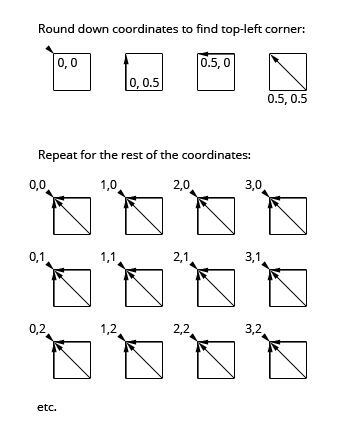
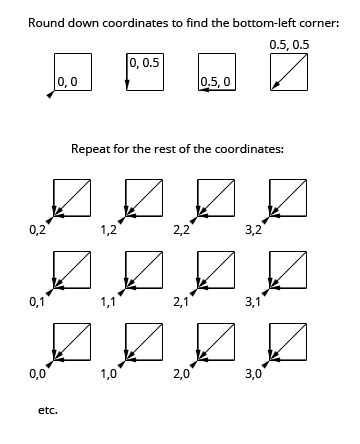
million_letters: copyedits from Kathy sans summary

diff --git a/www.html5rocks.com/content/tutorials/webgl/million_letters/en/index.html b/www.html5rocks.com/content/tutorials/webgl/million_letters/en/index.html
@@ -16,50 +16,61 @@
 </figure>
 
 <h2 id="toc-intro">Introduction</h2>
-<p>My goal in this article is to draw a million animated letters on the screen at a smooth framerate. This task should be quite possible with modern GPUs. Each letter consists of two textured triangles, so we're only talking about two million triangles per frame. 
+<p>My goal in this article is to draw a million animated letters on the screen at a smooth frame rate. This task should be quite possible with modern GPUs. Each letter consists of two textured triangles, so we're only talking about two million triangles per frame. 
 
 <p>If you're coming from a traditional JavaScript animation background, this all sounds like madness. Two million triangles updated every frame is definitely not something you would like to do with JavaScript today. But thankfully we have <a href="http://www.khronos.org/webgl/wiki/Getting_Started">WebGL</a>, which lets us tap into the awesome power of modern GPUs. And two million animated triangles is quite doable with a modern GPU and some shader magic.
 
 <h2 id="toc-efficientwebgl">Writing efficient WebGL code</h2>
-<p>Writing efficient WebGL code requires a specific mindset. The basic idea is to collect as many operations as possible into a single draw call, as changing the WebGL state machine state and doing WebGL calls is relatively expensive. If you want to draw more than a couple thousand objects at once, you need to adopt a quite different strategy for drawing.
+<p>Writing efficient WebGL code requires a certain mindset. The usual way to draw using WebGL is to set up your uniforms, buffers and shaders for each object, followed by a call to draw the object. This way of drawing works when drawing a small number of objects. To draw a large number of objects, you should minimize the amount of WebGL state changes. To start with, draw all objects using the same shader after each other, so that you don't have to change shaders between objects. For simple objects like particles, you could bundle several objects into a single buffer and edit it using JavaScript. That way you'd only have to reupload the vertex buffer instead of changing shader uniforms for every single particle.
 
-<p>The usual way of drawing with WebGL is to set up your uniforms, buffers and shaders for each object, followed by a call to draw the object. Unless your object is very complex, the time taken in this way of drawing is dominated by the state setup. To draw in a fast way, you can either do some buffer editing in JavaScript, followed by re-uploading the buffer and the draw call. If you need to go even faster, you can push more computation to the shaders.
+<p>But to go really fast, you need to push most of your computation to the shaders. That's what I'm trying to do here. Animate a million letters using shaders.
 
-<p>I'm going to be using the <a href="https://github.com/mrdoob/three.js/">Three.js</a> library for writing this demo. Three.js abstracts away all the tedious boilerplate from writing WebGL code. Instead of writing a hundred lines of WebGL state setup and error handling, you only need to write a couple lines of code using Three.js. And you can tap into the WebGL shader system from Three.js quite easily.
+<p>The article's code uses the <a href="https://github.com/mrdoob/three.js/">Three.js</a> library, which abstracts away all the tedious boilerplate from writing WebGL code. Instead of having to write hundreds of lines of WebGL state setup and error handling, with Three.js you only need to write a couple lines of code. It's also easy to tap into the WebGL shader system from Three.js.
 
-<h3 id="toc-efficientwebgl-example">Geometry bundling example</h3>
-<p>Instead of drawing one object at a time:
+<h3 id="toc-efficientwebgl-example">Drawing multiple objects using a single draw call</h3>
+<p>Here's a small pseudo-code example of how you might draw multiple objects using a single draw call. The traditional way is to draw one object at a time like this:
 <pre class="prettyprint">
 for (var i=0; i&lt;objects.length; i++) {
+  // each added object requires a separate WebGL draw call
   scene.add(createNewObject(objects[i]));
 }
+renderer.render(scene, camera);
 </pre>
 
-<p>Do it by bundling up the objects into a single geometry:
+<p>But the above method requires a separate draw call for each object. To draw multiple objects at once, you can bundle the objects into a single geometry and get away with a single draw call:
 <pre class="prettyprint">
 var geo = new THREE.Geometry();
 for (var i=0; i&lt;objects.length; i++) {
+  // bundle the objects into a single geometry
+  // so that they can be drawn with a single draw call
   addObjectToGeometry(geo, objects[i]);
 }
+// GOOD! Only one object to add to the scene!
 scene.add(new THREE.Mesh(geo, material));
+renderer.render(scene, camera);
 </pre>
 
+<p>Alright, now that you've got the basic idea, let's get back to writing the demo and start animating those million letters!
 
 <h2 id="toc-setup">Setting up the geometry and textures</h2>
-<p>To start I'm going to create a texture with the letter bitmaps on it. I'm using the 2D canvas for this. The resulting texture has all the letters I want to draw. Then I'm going to create a buffer with texture coordinates to the letter sprite sheet. While this is an easy and straightforward method of setting up the letters, it’s a bit wasteful as it uses two floats per vertex for the texcoords. A shorter way would be to pack the letter index and corner index into one number and convert that back to texture coordinates in the vertex shader.
+<p>As the first step, I'm going to create a texture with the letter bitmaps on it. I'm using the 2D canvas for this. The resulting texture has all the letters I want to draw. The next step is to create a buffer with the texture coordinates to the letter sprite sheet. While this is an easy and straightforward method to set up the letters, it’s a bit wasteful as it uses two floats per vertex for the texture coordinates. A shorter way &mdash; left as an exercise to the reader &mdash; would be to pack the letter index and corner index into one number and convert that back to texture coordinates in the vertex shader. 
 
-<p>Building the letter texture using Canvas 2D:
+<p>Here's how I build the letter texture using Canvas 2D:
 <pre class="prettyprint">
 var fontSize = 16;
-var lettersPerSide = 16; // 16*16 = 256, all 8-bit characters
+
+// The square letter texture will have 16 * 16 = 256 letters, enough for all 8-bit characters.
+var lettersPerSide = 16;
+
 var c = document.createElement('canvas');
 c.width = c.height = fontSize*lettersPerSide;
 var ctx = c.getContext('2d');
 ctx.font = fontSize+'px Monospace';
 
-var yOffset = -0.25; // magic number for aligning the letters on rows
+// This is a magic number for aligning the letters on rows. YMMV.
+var yOffset = -0.25;
 
-// draw all the letters to the canvas
+// Draw all the letters to the canvas.
 for (var i=0,y=0; y&lt;lettersPerSide; y++) {
   for (var x=0; x&lt;lettersPerSide; x++,i++) {
     var ch = String.fromCharCode(i);
@@ -67,8 +78,9 @@ for (var i=0,y=0; y&lt;lettersPerSide; y++) {
   }
 }
 
-// create texture from the letter map
+// Create a texture from the letter canvas.
 var tex = new THREE.Texture(c);
+// And tell Three.js that it needs to update the texture.
 tex.needsUpdate = true;
 </pre>
 
@@ -84,14 +96,14 @@ var v3 = function(x,y,z) {
 
 var i=0, x=0, line=0;
 for (i=0; i<BOOK.length; i++) {
-  var code = BOOK.charCodeAt(i); // character code for current letter
+  var code = BOOK.charCodeAt(i); // This is the character code for the current letter.
   if (code > lettersPerSide * lettersPerSide) {
-    code = 0; // clamp character codes to letter map size
+    code = 0; // Clamp character codes to letter map size.
   }
-  var cx = code % lettersPerSide; // x-index of the letter in map
-  var cy = Math.floor(code / lettersPerSide); // y-index of the letter in map
+  var cx = code % lettersPerSide; // Cx is the x-index of the letter in the map.
+  var cy = Math.floor(code / lettersPerSide); // Cy is the y-index of the letter in the map.
 
-  // add letter vertices to the geometry
+  // Add letter vertices to the geometry.
   var v,t;
   geo.vertices.push(
     v3( x*1.1+0.05, line*1.1+0.05, 0 ),
@@ -99,11 +111,11 @@ for (i=0; i<BOOK.length; i++) {
     v3( x*1.1+1.05, line*1.1+1.05, 0 ),
     v3( x*1.1+0.05, line*1.1+1.05, 0 )
   );
-  // create face for the letter
+  // Create face for the letter.
   var face = new THREE.Face4(i*4+0, i*4+1, i*4+2, i*4+3);
   geo.faces.push(face);
 
-  // compute texture coords for letters
+  // Compute texture coordinates for the letters.
   var tx=cx/lettersPerSide, ty=cy/lettersPerSide, off=1/lettersPerSide;
   var sz = lettersPerSide*fontSize;
   geo.faceVertexUvs[0].push([
@@ -113,8 +125,8 @@ for (i=0; i<BOOK.length; i++) {
     new THREE.UV( tx, ty )
   ]);
 
-  // move to line below on linefeed and move cursor to start of line
-  // otherwise move cursor to the right
+  // On newline, move to the line below and move the cursor to the start of the line.
+  // Otherwise move the cursor to the right.
   if (code == 10) {
     line--;
     x=0;
@@ -128,40 +140,40 @@ for (i=0; i<BOOK.length; i++) {
 <h2 id="toc-shader">Vertex shader for animating the letters</h2>
 <p>With a simple vertex shader, I get a flat view of the text. Nothing fancy. Runs well, but if I want to animate it, I need to do the animation in JavaScript. And JavaScript is kinda slow for animating the six million vertices involved, especially if you want to do it on every frame. Maybe there is there a faster way.
 
-<p>Why yes, we can do procedural animation. What that means is that we do all our position and rotation math in the vertex shader. Now I don't need to run any JavaScript to update the positions of the vertices. The vertex shader runs very fast and I get a smooth framerate even with a million triangles being individually animated every frame. To address the individual triangles, I round down the vertex coordinates so that all four points of a letter quad map to a single unique coordinate. Now I can use this coordinate to set the animation parameters for the letter in question.
+<p>Why yes, we can do procedural animation. What that means is that we do all our position and rotation math in the vertex shader. Now I don't need to run any JavaScript to update the positions of the vertices. The vertex shader runs very fast and I get a smooth frame rate even with a million triangles being individually animated every frame. To address the individual triangles, I round down the vertex coordinates so that all four points of a letter quad map to a single unique coordinate. Now I can use this coordinate to set the animation parameters for the letter in question.
 
-<p>To be able to successfully round down coordinates, coordinates from two different letters can't overlap. The easiest way to do this is by using square letter quads with a small offset separating the letter from the one on its right side and the line below it. For example, you could use a width and height of 0.5 for the letters and align the letters on integer coordinates. Now when you round down the coordinate of any letter vertex, you get the top-left coordinate of the letter.
+<p>To be able to successfully round down coordinates, coordinates from two different letters can't overlap. The easiest way to do this is by using square letter quads with a small offset separating the letter from the one on its right side and the line above it. For example, you could use a width and height of 0.5 for the letters and align the letters on integer coordinates. Now when you round down the coordinate of any letter vertex, you get the bottom-left coordinate of the letter.
 
 <figure>
   <img src="coordinate_rounding.png" width="360" height="444">
   <figcaption>Rounding down vertex coordinates to find the top-left corner of a letter.</figcaption>
 </figure>
 
-<p>Simple vertex shader (with explanations)
+<p>To better understand the animated vertex shader, I'm going to go through a simple run-of-the-mill vertex shader first. This is what normally happens when you draw a 3D model to the screen. The vertices of the model are transformed by a couple transformation matrices to project each 3D vertex onto the 2D screen. Whenever a triangle defined by three of these vertices lands inside the viewport, the pixels it covers are processed by the fragment shader to color them. Anyway, here's the simple vertex shader:
 <pre class="prettyprint">
 varying float vUv;
 
 void main() {
   // modelViewMatrix, position and projectionMatrix are magical
-  // attributes that Three.js defines for us
+  // attributes that Three.js defines for us.
 
-  // transform current vertex by the modelViewMatrix
-  // (bundled model world position & camera world position matrix)
+  // Transform current vertex by the modelViewMatrix
+  // (bundled model world position & camera world position matrix).
   vec4 mvPosition = modelViewMatrix * position;
 
-  // project camera-space vertex to screen coordinates
-  // using the camera's projection matrix
+  // Project camera-space vertex to screen coordinates
+  // using the camera's projection matrix.
   vec4 p = projectionMatrix * mvPosition;
 
-  // uv is another magical attribute from Three.js
-  // we're passing it to the fragment shader unchanged
+  // uv is another magical attribute from Three.js.
+  // We're passing it to the fragment shader unchanged.
   vUv = uv;
 
   gl_Position = p;
 }
 </pre>
 
-<p>Animated vertex shader 
+<p>And now, the animated vertex shader. Basically, it does the same thing as the simple vertex shader, but with a small twist. Instead of transforming each vertex by just the transformation matrices, it applies a time-dependent animated transformation as well. To make each letter animate a bit differently, the animated vertex shader also modifies the animation based on the coordinates of the letter. It's going to look a good deal more complicated than the simple vertex shader because, well, it <i>is</i> more complicated.
 <pre class="prettyprint">
 uniform float uTime;
 uniform float uEffectAmount;
@@ -169,7 +181,8 @@ uniform float uEffectAmount;
 varying float vZ;
 varying vec2 vUv;
 
-// Returns the mat3 rotation matrix for given angle and axis.
+// rotateAngleAxisMatrix returns the mat3 rotation matrix 
+// for given angle and axis.
 mat3 rotateAngleAxisMatrix(float angle, vec3 axis) {
   float c = cos(angle);
   float s = sin(angle);
@@ -183,21 +196,24 @@ mat3 rotateAngleAxisMatrix(float angle, vec3 axis) {
   );
 }
 
-// Rotates a vec3 over the given axis by the given angle and
+// rotateAngleAxis rotates a vec3 over the given axis by the given angle and
 // returns the rotated vector.
 vec3 rotateAngleAxis(float angle, vec3 axis, vec3 v) {
   return rotateAngleAxisMatrix(angle, axis) * v;
 }
 
 void main() {
-  // find letter index in book text (assuming 80-character max line length)
+  // Compute the index of the letter (assuming 80-character max line length).
   float idx = floor(position.y/1.1)*80.0 + floor(position.x/1.1);
-  // round down the vertex coords to find bottom-left corner point of letter
+
+  // Round down the vertex coords to find the bottom-left corner point of the letter.
   vec3 corner = vec3(floor(position.x/1.1)*1.1, floor(position.y/1.1)*1.1, 0.0);
-  // find midpoint of letter
+
+  // Find the midpoint of the letter.
   vec3 mid = corner + vec3(0.5, 0.5, 0.0);
-  // rotate letter around its midpoint by an angle and axis dependent on
-  // the letter's index and the current time
+
+  // Rotate the letter around its midpoint by an angle and axis dependent on
+  // the letter's index and the current time.
   vec3 rpos = rotateAngleAxis(idx+uTime, 
     vec3(mod(idx,16.0), -8.0+mod(idx,15.0), 1.0), position - mid) + mid;
 
@@ -207,45 +223,51 @@ void main() {
 
   vec4 fpos = vec4( mix(position,rpos,effectAmount), 1.0 );
   fpos.x += -35.0;
-  // apply spinning motion to individual letters
+
+  // Apply spinning motion to individual letters.
   fpos.z += ((sin(idx+uTime*2.0)))*4.2*effectAmount;
   fpos.y += ((cos(idx+uTime*2.0)))*4.2*effectAmount;
 
   vec4 mvPosition = modelViewMatrix * fpos;
-  // apply wavy motion to the entire text
+
+  // Apply wavy motion to the entire text.
   mvPosition.y += 10.0*sin(uTime*0.5+mvPosition.x/25.0)*effectAmount;
   mvPosition.x -= 10.0*cos(uTime*0.5+mvPosition.y/25.0)*effectAmount;
 
   vec4 p = projectionMatrix * mvPosition;
 
-  // pass texture coordinates and vertex z-coordinate to fragment shader
+  // Pass texture coordinates and the vertex z-coordinate to the fragment shader.
   vUv = uv;
   vZ = p.z;
 
-  // send final vertex position to WebGL
+  // Send the final vertex position to WebGL.
   gl_Position = p;
 }
 </pre>
 
-<p>To use the vertex shader, I use a <a href="https://github.com/mrdoob/three.js/blob/master/src/materials/ShaderMaterial.js">THREE.ShaderMaterial</a>, a material type that lets you use custom shaders and specify uniforms for them. Three.js provides some pre-built attributes for the shader, such as position, uv, modelViewMatrix and perspectiveMatrix. What this means is that it's usually easier to write shaders for Three.js than with raw WebGL.
-
-<p>Here's the ShaderMaterial example:
+<p>To use the vertex shader, I use a <a href="https://github.com/mrdoob/three.js/blob/master/src/materials/ShaderMaterial.js">THREE.ShaderMaterial</a>, a material type that lets you use custom shaders and specify uniforms for them. Here's how I'm using THREE.ShaderMaterial in the demo:
 <pre class="prettyprint">
-// set up uniforms for the shader
+// First, set up uniforms for the shader.
 var uniforms = {
-  // pass the letter map texture as a built-in uniform
+
+  // map contains the letter map texture.
   map: { type: "t", value: 1, texture: tex },
-  // current time
+
+  // uTime is the urrent time.
   uTime: { type: "f", value: 1.0 },
-  // amount of animation to show
+
+  // uEffectAmount controls the amount of animation applied to the letters.
   uEffectAmount: { type: "f", value: 0.0 }
 };
-  
+
+// Next, set up the THREE.ShaderMaterial.  
 var shaderMaterial = new THREE.ShaderMaterial({
   uniforms: uniforms,
 
   // I have my shaders inside HTML elements like
-  // &lt;script type="text/x-glsl-vert">... shaderSource ... &lt;script>
+  // &lt;script id="vertex" type="text/x-glsl-vert">... shaderSource ... &lt;script>
+
+  // The below gets the contents of the vertex shader script element.
   vertexShader: document.querySelector('#vertex').textContent,
 
   // The fragment shader is a bit special as well, drawing a rotating
@@ -253,20 +275,20 @@ var shaderMaterial = new THREE.ShaderMaterial({
   fragmentShader: document.querySelector('#fragment').textContent
 });
 
-// set depthTest to false so that the letters don't occlude each other
+// I set depthTest to false so that the letters don't occlude each other.
 shaderMaterial.depthTest = false;
 </pre>
 
-<p>On animation frames, I update the shader uniforms:
+<p>On every animation frame, I update the shader uniforms:
 <pre class="prettyprint">
-// Controlling the uniforms through a control object
-// The reason I'm not controlling the uniforms directly is to 
-// have different names and value ranges for the uniforms and the controls
+// I'm controlling the uniforms through a proxy control object.
+// The reason I'm using a proxy control object is to
+// have different value ranges for the controls and the uniforms.
 var controller = {
   effectAmount: 0
 };
 
-// I'm using <a href="http://code.google.com/p/dat-gui/">DAT.GUI</a> to do a quick & easy GUI for the demo
+// I'm using <a href="http://code.google.com/p/dat-gui/">DAT.GUI</a> to do a quick & easy GUI for the demo.
 var gui = new dat.GUI();
 gui.add(controller, 'effectAmount', 0, 100);
 
@@ -281,12 +303,18 @@ var animate = function(t) {
 animate(+new Date);
 </pre>
 
-<p>And there you have it, shader-based animation. It looks pretty complex but the only thing it really does is moves the letters around in a way that depends on the letter's index. If performance wasn't a concern you would have this logic running in JavaScript. However, at tens of thousands of objects, JavaScript stops being a viable solution.
+<p>And there you have it, shader-based animation. It looks pretty complex, but the only thing it really does is move the letters around in a way that depends on the current time and each letter's index. If performance wasn't a concern, you could have this logic running in JavaScript. However, at tens of thousands of animated objects, JavaScript stops being a viable solution.
 
 <h2 id="toc-concerns">Remaining concerns</h2>
-<p>The only problem now is that JavaScript doesn’t know about the particle positions. If you really need to know where your particles are, you could duplicate the vertex shader logic in JavaScript and re-calculate the vertex positions using a web worker every time you need the positions. That way your rendering thread doesn’t have to wait for the math and you can continue animating at a smooth frame rate.
+<p>The only problem now is that JavaScript doesn’t know about the particle positions. If you really need to know where your particles are, you could duplicate the vertex shader logic in JavaScript and recalculate the vertex positions using a web worker every time you need the positions. That way your rendering thread doesn’t have to wait for the math and you can continue animating at a smooth frame rate.
 
-<p>For more controllable animation, you could use render-to-texture functionality to tween between the JavaScript-provided positions and the current positions. First render the current positions to the texture, then tween from the JS array towards these positions, updating the texture on each frame. The nice thing about this is that you can update a small fraction of the JS positions per frame and still continue animating all the letters every frame with the vertex shader tweening the positions. 
+<p>For more controllable animation, you could use render-to-texture functionality to animate between two sets of positions provided by JavaScript. First, render the current positions to a texture, then animate towards positions defined in a separate texture provided by JavaScript. The nice thing about this is that you can update a small fraction of the JavaScript-provided positions per frame and still continue animating all the letters every frame with the vertex shader tweening the positions.
+
+<!--
+<h2 id="toc-summary">Summary</h2>
+<p>
+-->
+
 
   <h2 id="toc-references">References</h2>
   <ul>
